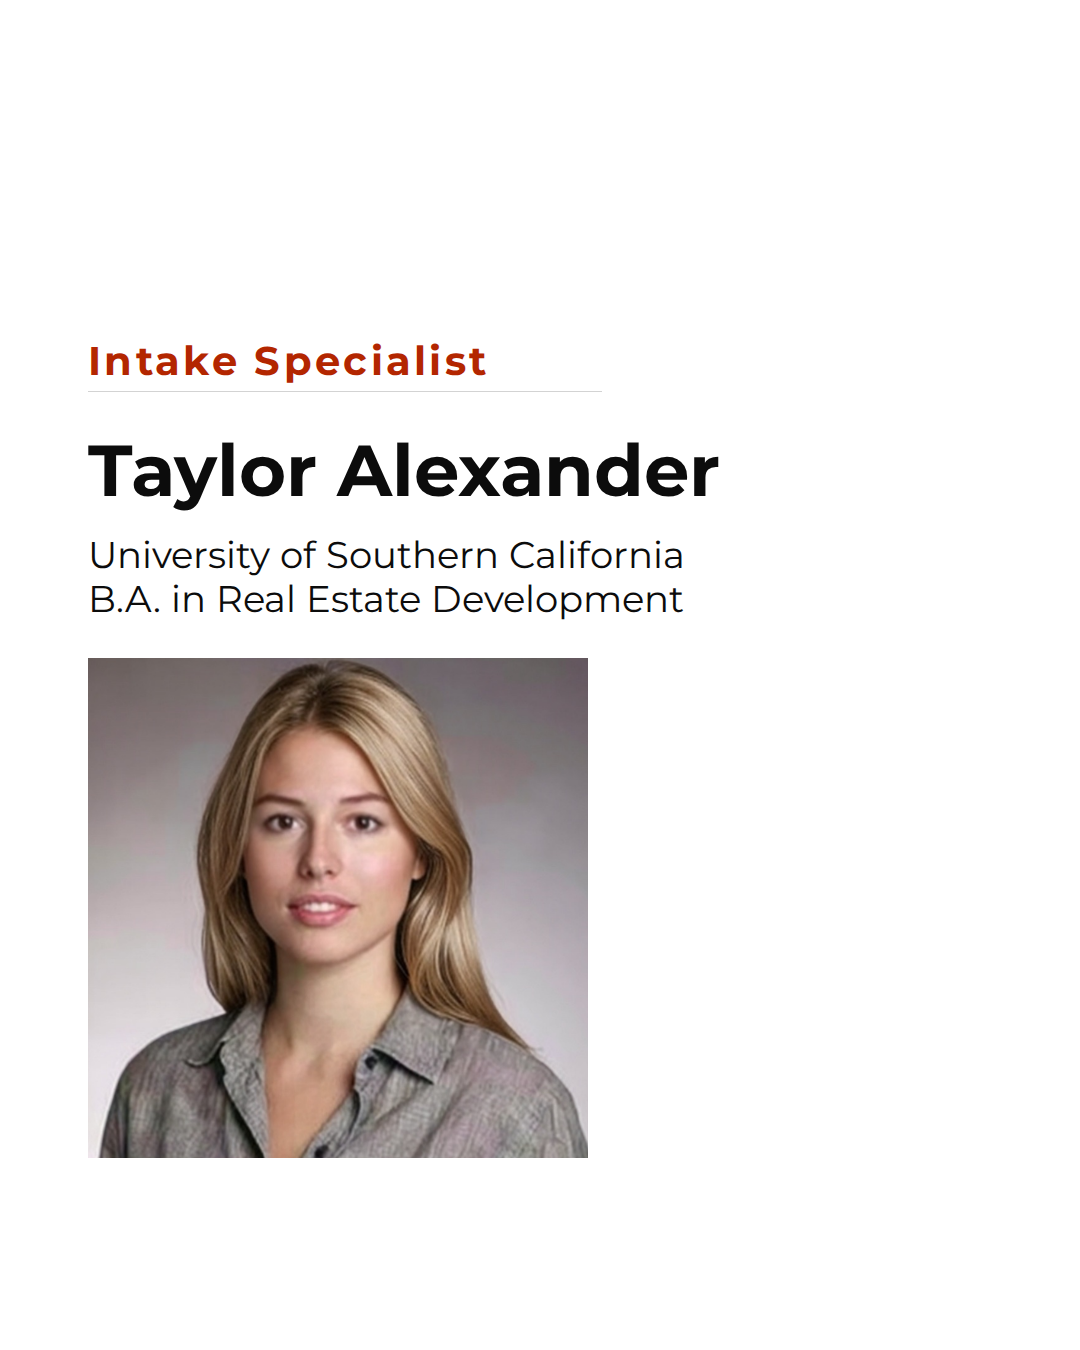
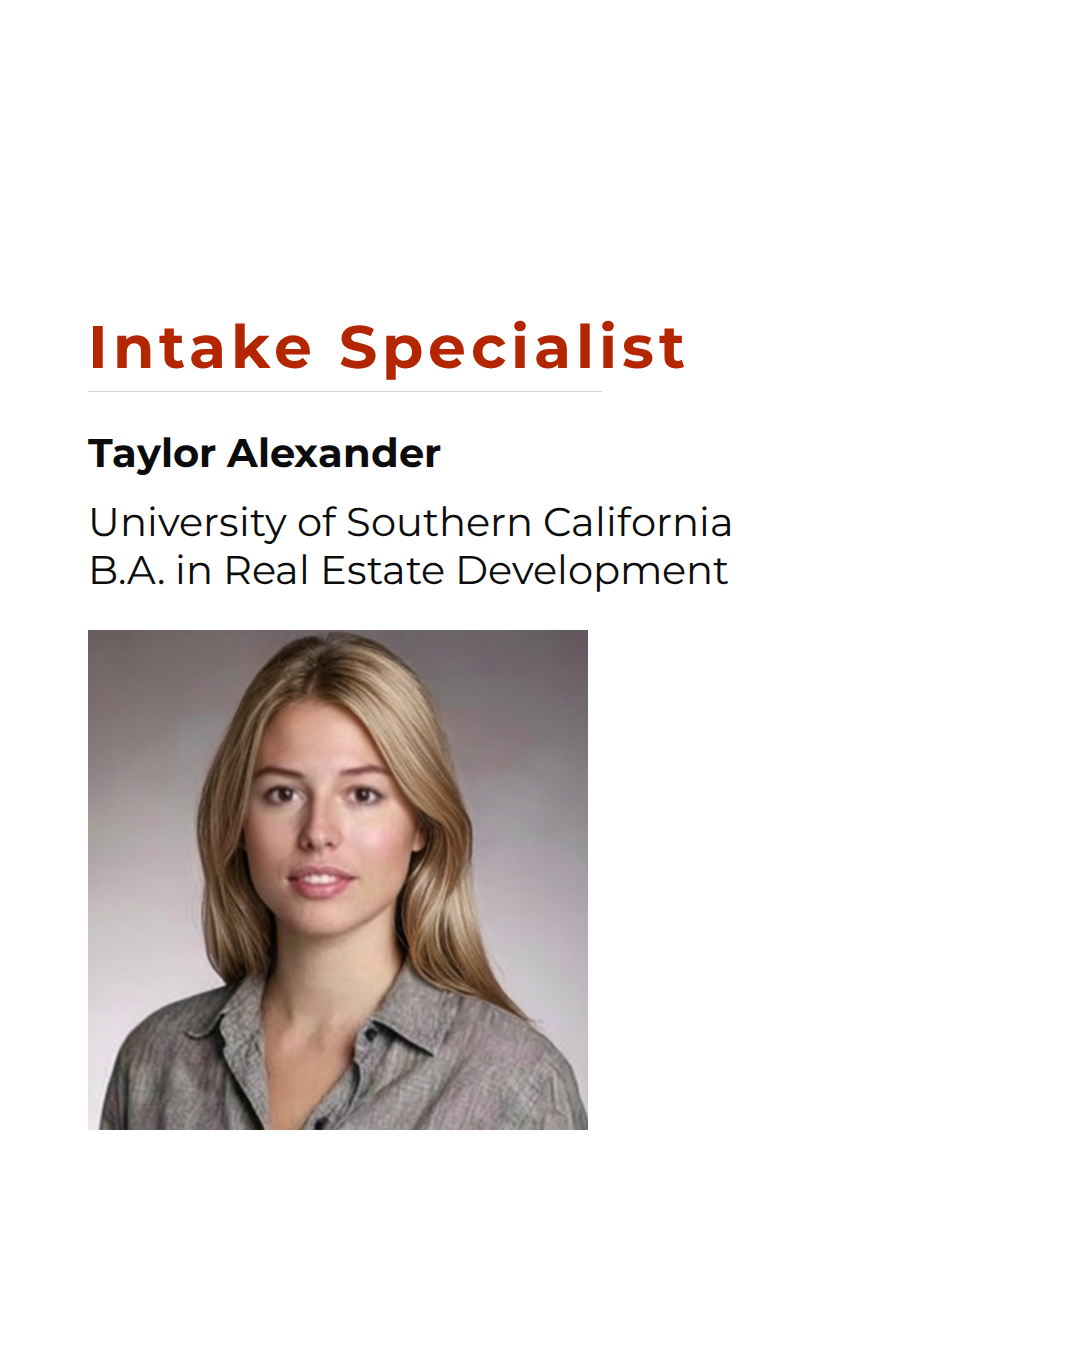
Adopt larger default typography for middle slides
Raise the middle-slide type scale: titles 60px (fit floor 48), names
and body copy 40px (floor 36), with the title baseline lifted so 60px
descenders keep the same visual gap to the unchanged divider. Body
copy now steps down vertically only when its column overflows, never
below 36px; past that the slide fails validation.

The generator reports each slide's final computed font sizes and warns
when auto-fit lands an element on its minimum, so cramped copy gets
edited instead of silently shrunk. Covers already preferred 120px with
a 72px floor and are unchanged. Regenerated both practice carousels.

Claude-Session: https://claude.ai/code/session_01DcJjyEqKKpuBm11ozHHHg2

Changed region(s): [[0.0611, 0.3111, 0.6722, 0.8711], [0.0611, 0.2178, 0.6417, 0.28]]

diff --git a/templates/middle.html b/templates/middle.html
@@ -37,8 +37,9 @@
   /* Hierarchy: title above the divider, divider, stacked content below,
      image only after all text. The title takes the accent red. Its LAST
      baseline is pinned, so multiline titles grow upward and always stay
-     clear of the divider. */
-  .title{ --fs:40; --lh:1.35; --bl:375.6; letter-spacing:.083em; color:var(--accent); }
+     clear of the divider (baseline sits so 60px descenders keep the same
+     visual gap to the rule that the smaller title had). */
+  .title{ --fs:60; --lh:1.35; --bl:368; letter-spacing:.083em; color:var(--accent); }
 
   .rule{ position:absolute; left:var(--ml); width:514px; height:1px;
          background:currentColor; opacity:.18; }
@@ -51,10 +52,10 @@
   .content{ position:absolute; left:var(--ml); right:var(--ml); top:431px;
             bottom:88px; display:flex; flex-direction:column;
             align-items:flex-start; gap:24px; }
-  .subheading{ --fs:72; margin:0; font-size:calc(var(--fs) * 1px);
+  .subheading{ --fs:40; margin:0; font-size:calc(var(--fs) * 1px);
                line-height:1.0833; font-weight:700; white-space:pre-wrap;
                align-self:stretch; }
-  .body{ --fs:37; margin:0; font-size:calc(var(--fs) * 1px);
+  .body{ --fs:40; margin:0; font-size:calc(var(--fs) * 1px);
          line-height:1.2; font-weight:400; white-space:pre-wrap;
          align-self:stretch; }
   /* The image yields to the text: when copy runs long it shrinks into the
@@ -128,10 +129,10 @@
 
 /* Auto-fit: shrinks a line only if it would cross the margin.
    Set lock to a number to force one fixed size on every slide.
-   The body wraps instead of shrinking, so it is not fitted. */
+   The body wraps, so its overflow is vertical and handled separately. */
 const FIT = [
-  { sel:'.title',      max:40, min:30, lock:null },
-  { sel:'.subheading', max:72, min:48, lock:null }
+  { sel:'.title',      max:60, min:48, lock:null },
+  { sel:'.subheading', max:40, min:36, lock:null }
 ];
 
 function widestLine(el, fs){
@@ -160,6 +161,18 @@ document.fonts.ready.then(() => {
       const fs = Math.min(role.max, role.max * avail / longest);
       el.style.setProperty('--fs', Math.max(role.min, Math.floor(fs * 2) / 2));
     });
+  }
+  /* Body copy wraps, so it only ever overflows vertically. Step down
+     from 40 no further than 36; past that the generator fails the
+     slide so the copy gets edited instead of shrunk into tiny type. */
+  const content = document.querySelector('.content');
+  const body = document.querySelector('.body');
+  if (content && body){
+    let fs = 40;
+    while (fs > 36 && content.scrollHeight > content.clientHeight + 1){
+      fs -= 0.5;
+      body.style.setProperty('--fs', fs);
+    }
   }
 });
 </script>

diff --git a/scripts/generate.js b/scripts/generate.js
@@ -341,6 +341,30 @@ async function renderSlide(page, htmlFile, job) {
     fail(`${job.label}: validation failed after fonts and images loaded:\n  - ${problems.join('\n  - ')}\n` +
          'Shorten the copy, add explicit line breaks in the CSV, or use a smaller image.');
   }
+
+  // Report the final computed type sizes, warning when auto-fit drove an
+  // element to its minimum (a sign the copy needs editing, not more shrink).
+  const sizes = await page.evaluate(() => {
+    const out = [];
+    for (const sel of ['.display', '.title', '.subheading', '.body', '.headline']) {
+      const el = document.querySelector(sel);
+      if (!el || getComputedStyle(el).display === 'none') continue;
+      out.push({ sel, px: Math.round(parseFloat(getComputedStyle(el).fontSize) * 2) / 2 });
+    }
+    return out;
+  });
+  const floors = {
+    cover: { '.display': 72 },
+    middle: { '.title': 48, '.subheading': 36, '.body': 36 },
+    closing: { '.headline': 60, '.subheading': 24 },
+  }[job.template] || {};
+  for (const s of sizes) {
+    if (floors[s.sel] !== undefined && s.px <= floors[s.sel]) {
+      console.warn(`  warning: ${job.label}: ${s.sel} rendered at its ${floors[s.sel]}px minimum — ` +
+                   'the copy may need editing');
+    }
+  }
+  return sizes;
 }
 
 /* -------------------------------------------------------------------- run */
@@ -387,6 +411,7 @@ async function main() {
         postId,
         month,
         htmlFile,
+        template: slide.template,
         checks: slide.checks,
         minGapBelowText: slide.minGapBelowText,
         label: `post "${postId}", ${slide.name} [${slide.template} template] (slide-${pad2(index + 1)}.png)`,
@@ -410,13 +435,14 @@ async function main() {
 
   try {
     for (const job of jobs) {
-      await renderSlide(page, job.htmlFile, job);
+      const sizes = await renderSlide(page, job.htmlFile, job);
       fs.mkdirSync(path.dirname(job.pngFile), { recursive: true });
       await page.screenshot({
         path: job.pngFile,
         clip: { x: 0, y: 0, width: WIDTH, height: HEIGHT },
       });
-      console.log(`wrote ${path.relative(ROOT, job.pngFile)}`);
+      const typeReport = sizes.map((s) => `${s.sel} ${s.px}px`).join(', ');
+      console.log(`wrote ${path.relative(ROOT, job.pngFile)}  [${typeReport}]`);
     }
   } finally {
     await browser.close();
